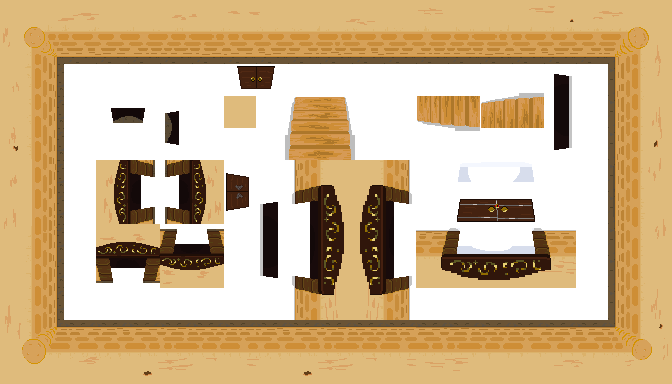
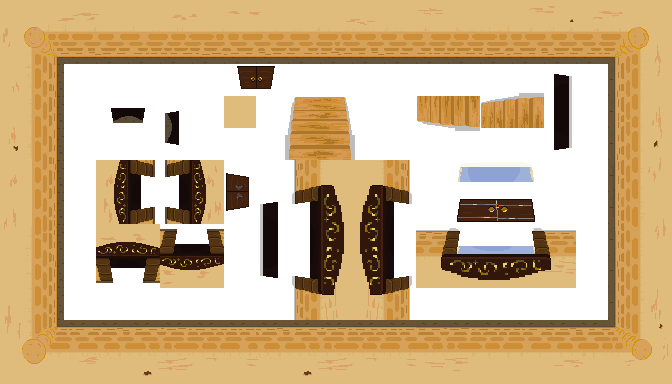
end screen

Changed region(s): [[0.6562, 0.625, 0.8125, 0.6875], [0.6562, 0.4375, 0.8125, 0.5]]

diff --git a/index.html b/index.html
@@ -44,6 +44,28 @@
             }
         }
 
+        class EcranFin extends Phaser.Scene {
+            constructor() {
+                super("EcranFin")
+            }
+
+            preload() {
+
+                this.load.image("End_Screen", "assets/endtitle.png");
+
+            }
+
+            create() {
+
+                this.imageFin = this.physics.add.staticGroup();
+                this.fin=this.imageFin.create(640, 360, 'End_Screen');
+                this.fin.setScale(5)
+            }
+
+            update() {
+            }
+        }    
+
     class sceneExemple extends Phaser.Scene{
         constructor(){
         super("sceneExemple");
@@ -1160,7 +1182,8 @@
                 }
 
                 if ((this.player.x >= 1641 && this.player.x <= 1720) && (this.player.y >=1298 && this.player.y <= 1357)){
-                    this.Death()
+                    this.scene.start("EcranFin",{
+                    });
                 }
 
                 if (this.HpJoueur>=3){
@@ -3010,7 +3033,7 @@
             forceSetTimeOut: true
             },
             input:{gamepad:true},
-            scene: [EcranTitre,sceneExemple,sceneExemple2]
+            scene: [EcranTitre,sceneExemple,sceneExemple2,EcranFin]
             };
         new Phaser.Game(config);
 
